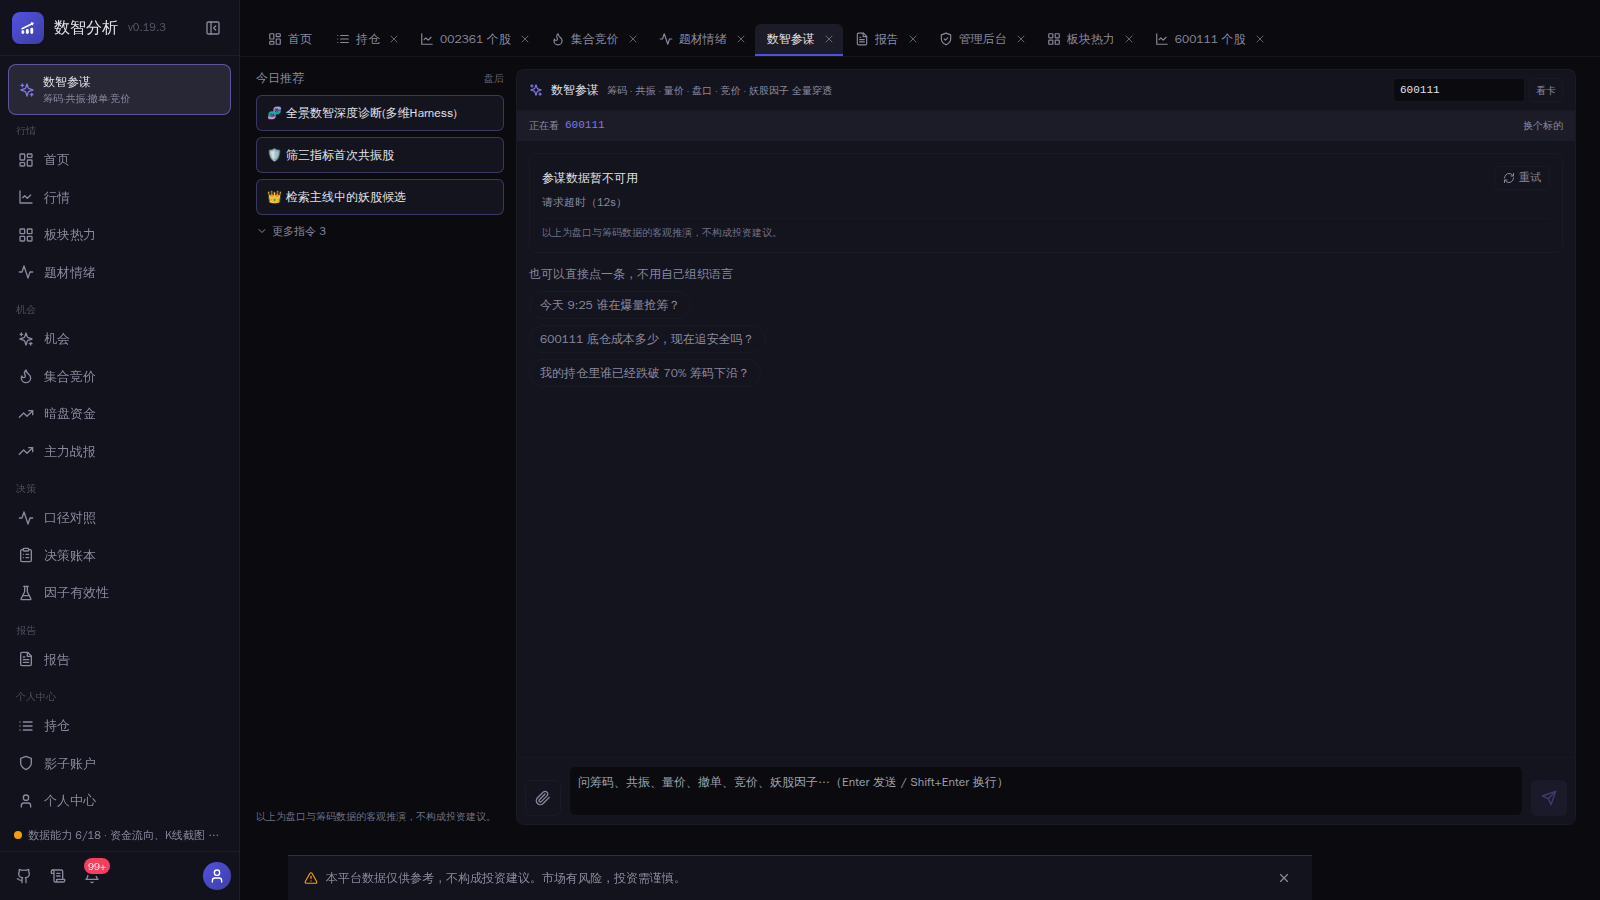
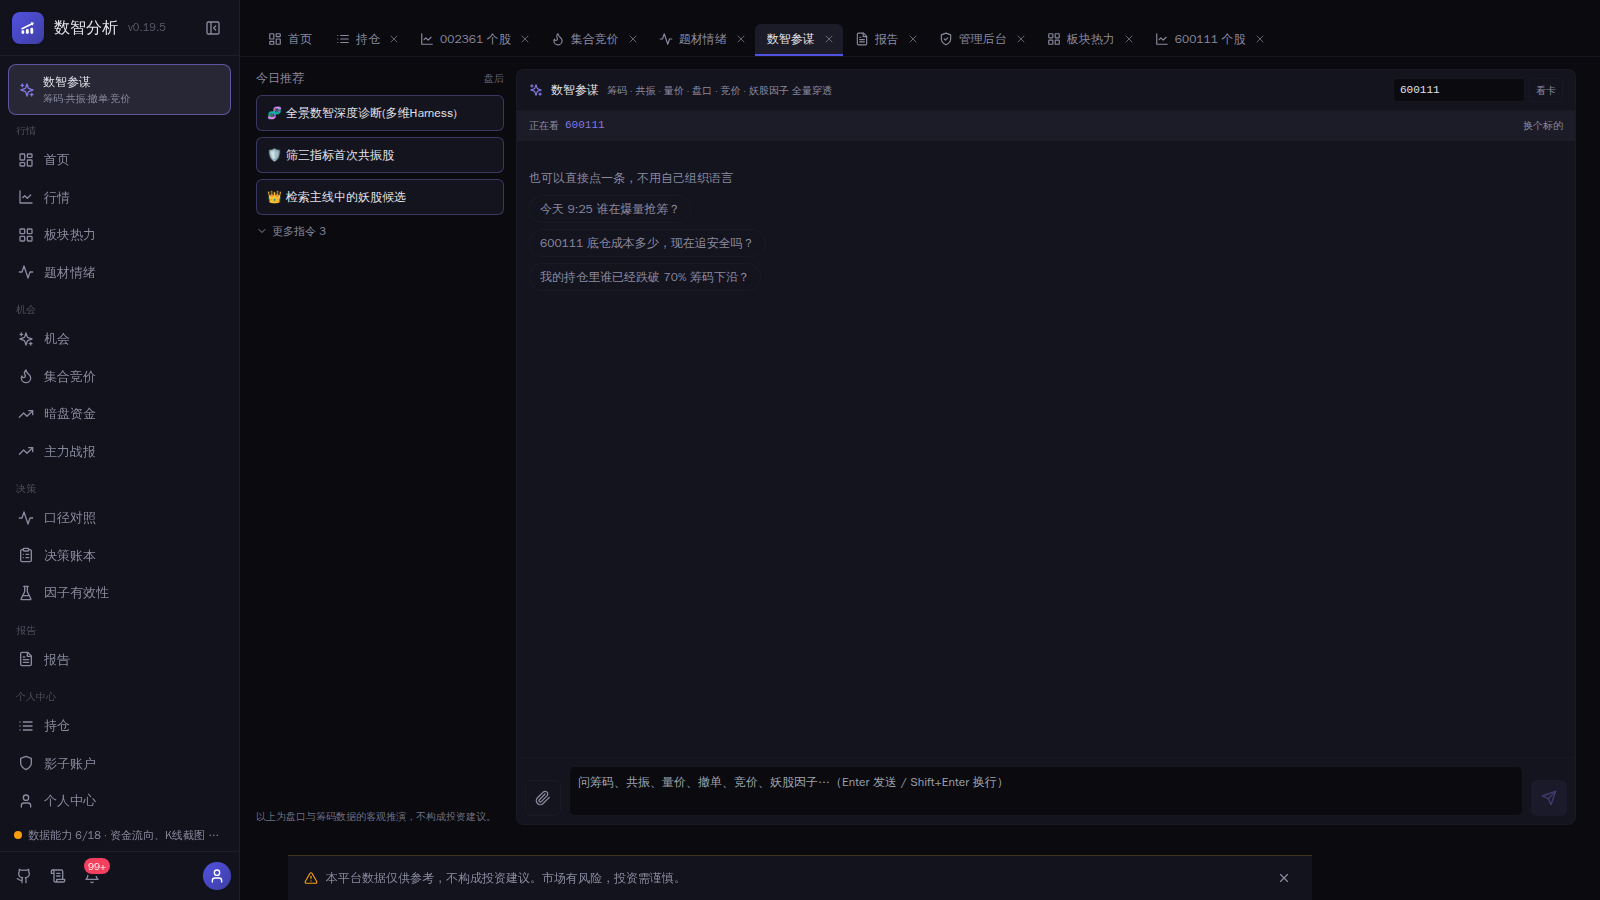
style(copilot): make empty-state examples read as clickable cards (v0.19.6)

Changed region(s): [[0.3125, 0.1867, 0.4688, 0.4356], [0.9375, 0.1867, 0.9688, 0.2178]]

diff --git a/frontend/src/pages/AiCopilot.tsx b/frontend/src/pages/AiCopilot.tsx
@@ -1,5 +1,5 @@
 import { useCallback, useEffect, useRef, useState } from 'react'
-import { ChevronDown, Loader2, Paperclip, Send, Sparkles, X } from 'lucide-react'
+import { ChevronDown, ChevronRight, Loader2, Paperclip, Send, Sparkles, X } from 'lucide-react'
 import { chatApi } from '@panwatch/api'
 import SafeMarkdown from '@/components/SafeMarkdown'
 import { AnswerCard } from '@/components/copilot/AnswerCard'
@@ -430,9 +430,11 @@ export default function AiCopilotPage() {
                     type="button"
                     onClick={() => void send(x)}
                     disabled={streaming}
-                    className="rounded-full border border-border/60 bg-s1 px-2.5 py-1 text-left text-[12px] text-muted-foreground hover:border-role-watch/50 hover:bg-s2 hover:text-foreground disabled:opacity-60"
+                    data-testid="copilot-empty-example"
+                    className="group flex w-full items-center gap-2 rounded-lg border border-role-watch/30 bg-s2 px-2.5 py-1.5 text-left text-[12px] text-foreground/90 transition-colors hover:border-role-watch/60 hover:bg-s3 disabled:opacity-60"
                   >
-                    {x}
+                    <span className="min-w-0 flex-1">{x}</span>
+                    <ChevronRight className="h-3 w-3 shrink-0 text-role-watch/70" />
                   </button>
                 ))}
               </div>

diff --git a/README.md b/README.md
@@ -5,7 +5,7 @@
 **Proprietary personal stock-trading analytics platform** — dual data sources (TDX `.tck`/`.img`/TQ + THS `thsdk`) → full-market scanning → K-line overlay annotation → AI data steward. Self-hosted, all-in-one.
 
 [![License: Proprietary](https://img.shields.io/badge/License-Proprietary-red.svg)](LICENSE)
-![Version](https://img.shields.io/badge/version-v0.19.5-blue) <!-- bump together with VERSION file on every release -->
+![Version](https://img.shields.io/badge/version-v0.19.6-blue) <!-- bump together with VERSION file on every release -->
 
 *Language: [中文](README.zh-CN.md)*
 

diff --git a/README.zh-CN.md b/README.zh-CN.md
@@ -5,7 +5,7 @@
 **闭源个人股票交易分析平台** — 通达信(.tck/.img/TQ) + 同花顺(thsdk) 双数据源 → 全市场扫描 → K线图层标注 → AI 全数据管家，自托管一体系统。
 
 [![License: Proprietary](https://img.shields.io/badge/License-Proprietary-red.svg)](LICENSE)
-![Version](https://img.shields.io/badge/version-v0.19.5-blue) <!-- 与 VERSION 文件同步 bump -->
+![Version](https://img.shields.io/badge/version-v0.19.6-blue) <!-- 与 VERSION 文件同步 bump -->
 
 *语言: [English](README.md)*
 
